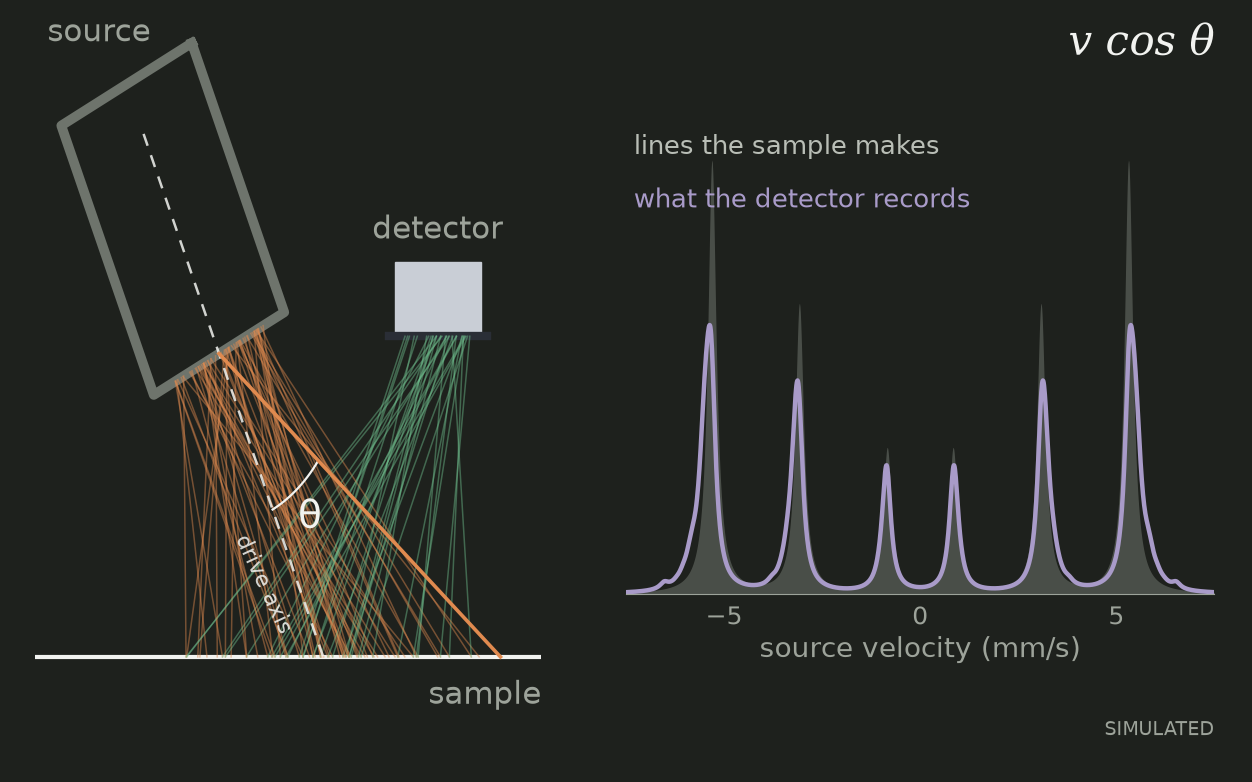
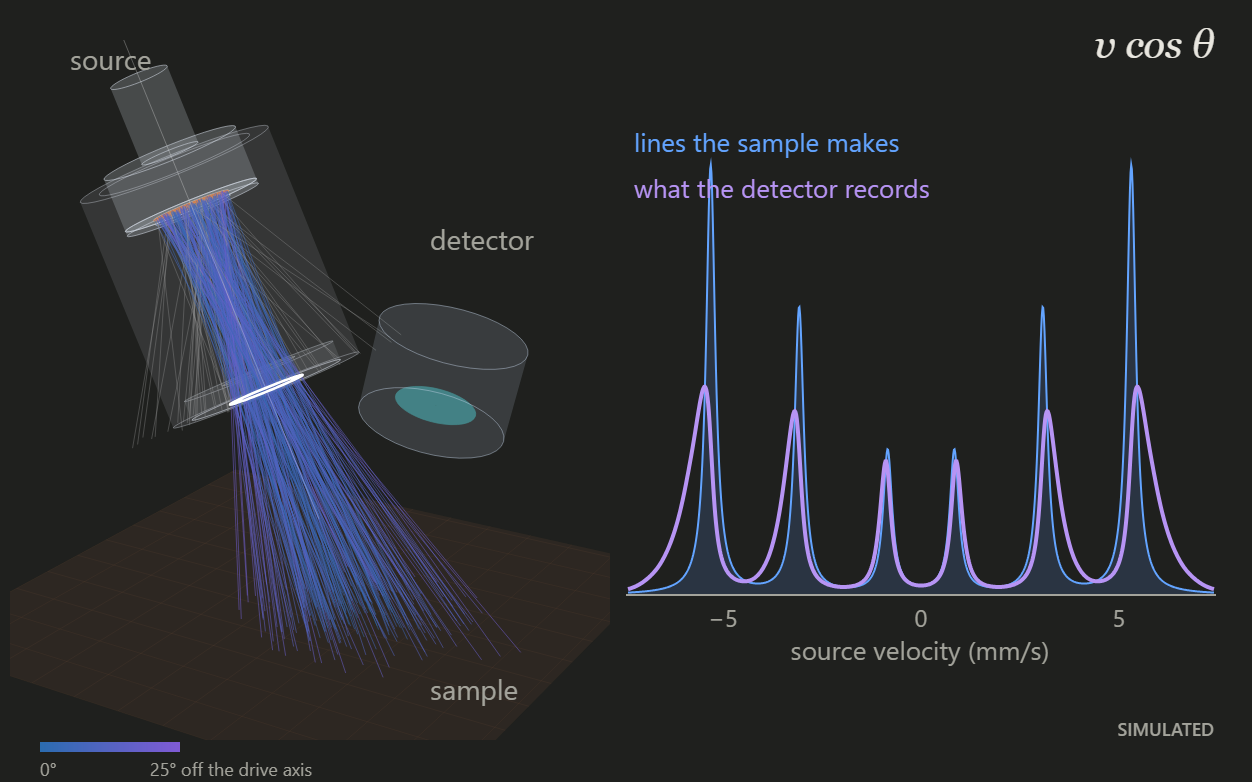
Home: Monte Carlo card thumbnail redrawn from the page engine (see-through 3-D head, rays by angle, blue/purple spectrum)

diff --git a/index.html b/index.html
@@ -130,7 +130,7 @@
           <span class="project__more">See the workflow →</span></div>
       </a>
       <a class="project" href="montecarlo.html">
-        <div class="project__thumb"><img src="assets/img/proj-montecarlo.png" alt="Photon paths from a tilted source through a sample to a detector, next to a simulated iron spectrum with broadened lines" width="1252" height="782" loading="lazy"></div>
+        <div class="project__thumb"><img src="assets/img/proj-montecarlo.png?v=20261118" alt="3-D model of the spectrometer head with a see-through collimator and detector housing, photon paths colored by angle, next to a simulated iron spectrum before and after broadening" width="1252" height="782" loading="lazy"></div>
         <div class="project__body"><div class="project__tag">Simulation · Mössbauer spectrometer</div>
           <h3 class="project__title">Simulating photon paths in a Mössbauer spectrometer</h3>
           <p>My Monte Carlo model tracks photons from the source to the sample and on to the detector. At an angle, photons pick up a smaller Doppler shift from the drive, which broadens the spectral lines. I use the model to compare detector layouts before building them.</p>
